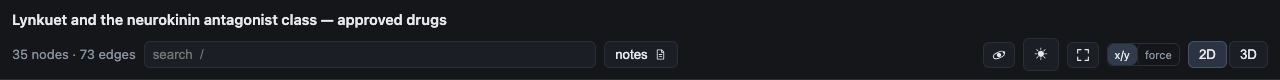
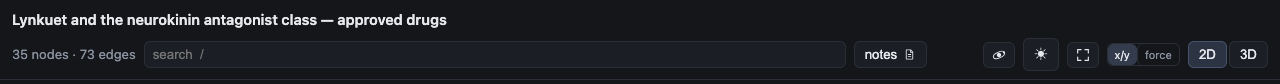
the search field takes the slack, the switchers keep their gap

diff --git a/docs/how-to/index.html b/docs/how-to/index.html
@@ -88,10 +88,10 @@ figcaption{color:var(--muted);font-size:12.5px;margin-top:6px}
   box and <b>notes</b> sit on the left — the search takes whatever room is left — and every switch
   sits on the right.</p>
   <figure>
-    <img src="topbar-left.png" alt="The left half of the real top bar: the title on its own row, then the node and edge count, the wide search field and the notes button">
-    <img src="topbar-right.png" alt="The right half of the real top bar: orbit, theme, fit, x/y-force and 2D/3D" style="margin-top:10px">
-    <figcaption>Two halves of the real bar. Left: count · search · notes. Right: rings · theme ·
-    fit · layout · 2D/3D.</figcaption>
+    <img src="topbar.png" alt="The real top bar: the title on its own row; below it the node and edge count, the wide search field and the notes button on the left, then orbit, theme, fit, x/y-force and 2D/3D on the right">
+    <img src="topbar-right.png" alt="The five switches, enlarged: orbit, theme, fit, x/y-force and 2D/3D" style="margin-top:10px;width:100%;max-width:590px">
+    <figcaption>The real bar — count · search · notes on the left, every switch on the right, and
+    the switches again at twice the size.</figcaption>
   </figure>
   <ul>
     <li><b>title · nodes · edges</b> — what the document is, and how big it is.</li>

diff --git a/src/styles.css b/src/styles.css
@@ -128,7 +128,10 @@ body {
 }
 
 .spacer {
-  flex: 1;
+  /* A breather between the left group and the switches — not the thing that takes the slack:
+     the search field is. With both growing they split the room evenly and the field stays
+     half-width while a hole opens in the middle of the bar. */
+  flex: 0 0 40px;
 }
 
 .search {
